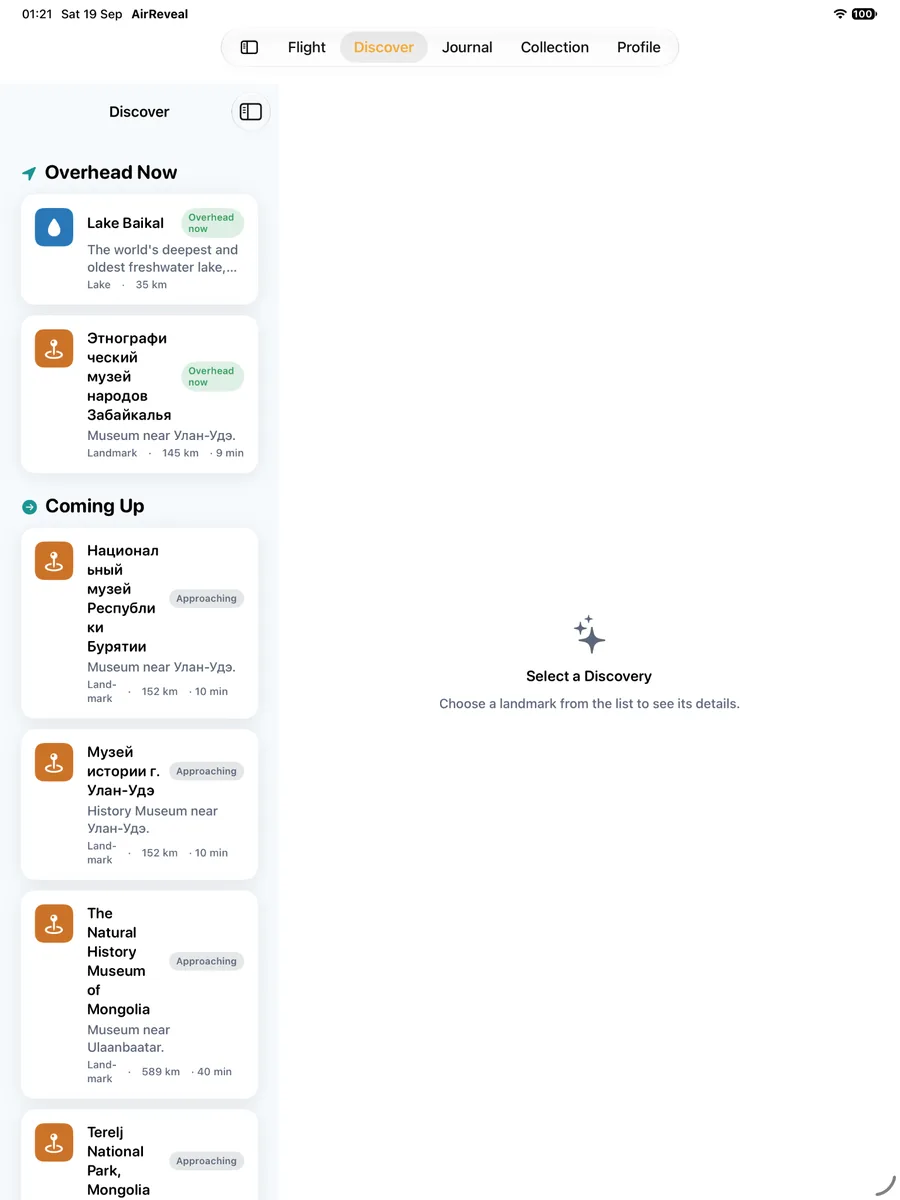
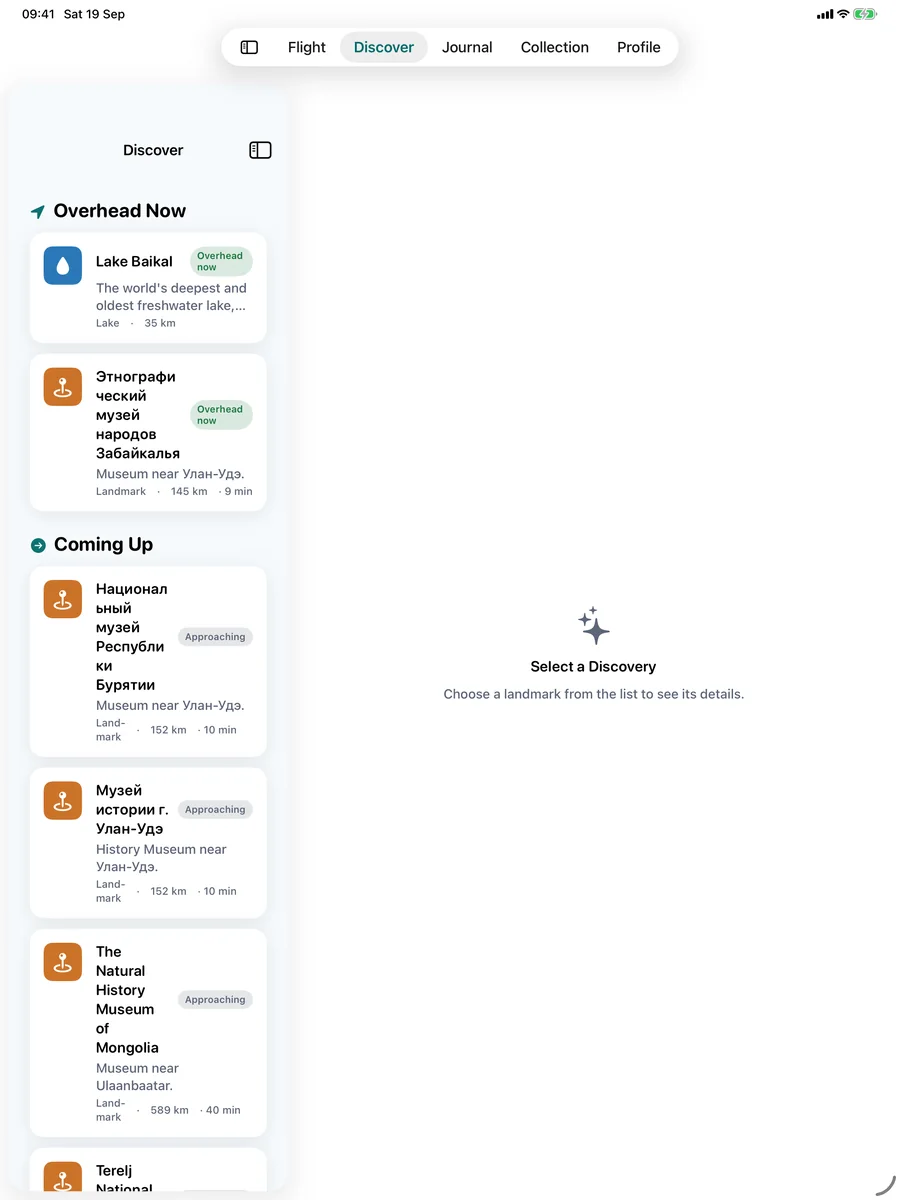
Update Privacy and Terms for current app behaviour; refresh iPad screenshots
Privacy: background "Always" location and on-device route comparison,
generated progress data, on-device entitlement check, free-flight note.
Terms: UK pricing note, Lifetime restore. Both dated September 19, 2026.
Website iPad screenshots re-captured from the current UI.

diff --git a/privacy.html b/privacy.html
@@ -26,7 +26,7 @@
   <header class="doc-head">
     <p class="eyebrow">Privacy Policy</p>
     <h1 class="doc-title">How AirReveal handles your data</h1>
-    <p class="doc-meta">Effective September 18, 2026</p>
+    <p class="doc-meta">Effective September 19, 2026</p>
     <div class="lede">
       <strong>In short:</strong> AirReveal keeps your flight data on your device, and only syncs it to your own iCloud when you explicitly ask it to. There are no AirReveal servers, no accounts, no analytics, and no advertising in this app — full stop.
     </div>
@@ -70,13 +70,14 @@
       <span class="badge"><span class="dot"></span>Journal entries for completed trips</span>
       <span class="badge"><span class="dot"></span>Your display name</span>
       <span class="badge"><span class="dot"></span>Photos captured or picked in the app</span>
+      <span class="badge"><span class="dot"></span>Landmarks you discover, achievements, XP and passport stamps — generated by using the app</span>
     </div>
     <p>All of it is optional — AirReveal only stores what you choose to type, select, or photograph inside the app.</p>
   </section>
 
   <section class="clause" id="location">
     <h2 class="clause-title"><span class="num">3</span> Location Services</h2>
-    <p>AirReveal uses your device's GPS only while you're Live-tracking a real flight — a feature that plots your actual position against your planned route and detects nearby landmarks. Location updates continue in the background so tracking doesn't stop when the app isn't on screen.</p>
+    <p>AirReveal uses your device's GPS only while you're Live-tracking a real flight — a feature that plots your actual position against your planned route and detects nearby landmarks. AirReveal asks for location access when you start tracking, and then for "Always" access so tracking can continue in the background — while your device is locked or another app is open — for the whole flight. Its only use is to record your actual flown route and, on your device, to compare it with the route you planned.</p>
     <ul>
       <li>Location is never requested or used while you're only planning a flight — Plan mode is fully offline-capable and needs no GPS access.</li>
       <li>Your recorded route is stored locally on your device (see Section 7) and is included in an iCloud sync only if you explicitly choose to sync (Section 8).</li>
@@ -128,7 +129,8 @@
 
   <section class="clause" id="subscriptions">
     <h2 class="clause-title"><span class="num">10</span> Subscriptions &amp; payment</h2>
-    <p>AirReveal Pro is sold as an auto-renewable subscription (or a one-time Lifetime purchase) through Apple's App Store using StoreKit. All payment details — card numbers, billing address, and purchase history — are collected and processed by Apple, not by AirReveal. We only receive confirmation from Apple that an active entitlement exists, so we can unlock Live tracking on your device.</p>
+    <p>AirReveal Pro is sold as an auto-renewable subscription (or a one-time Lifetime purchase) through Apple's App Store using StoreKit. All payment details — card numbers, billing address, and purchase history — are collected and processed by Apple, not by AirReveal. We only receive confirmation from Apple that an active entitlement exists, so we can unlock Live tracking on your device; that check is made on your device by StoreKit, not by an AirReveal server.</p>
+    <p>Your first Live-tracked flight is free. AirReveal keeps a single note on your device recording that you've used it, so it isn't offered twice; nothing about it is sent to us.</p>
   </section>
 
   <section class="clause" id="export">

diff --git a/terms.html b/terms.html
@@ -26,7 +26,7 @@
   <header class="doc-head">
     <p class="eyebrow">Terms of Use</p>
     <h1 class="doc-title">The agreement between you and AirReveal</h1>
-    <p class="doc-meta">Effective September 18, 2026</p>
+    <p class="doc-meta">Effective September 19, 2026</p>
     <div class="lede">
       <strong>Before you rely on anything in this app:</strong> AirReveal is a personal flight-companion and landmark-discovery tool, not an official flight-tracking, air-traffic, or aviation-safety service. See Section 3.
     </div>
@@ -88,10 +88,12 @@
       <tr><td>Pro Lifetime</td><td>One-time purchase, never renews</td><td class="num-col">£44.99 once</td><td>N/A</td></tr>
     </table>
     <ul>
+      <li>Prices shown are for the United Kingdom. In other countries and regions the App Store charges the local equivalent, shown to you before you confirm any purchase.</li>
       <li>Payment is charged to your Apple ID account at confirmation of purchase.</li>
       <li>Subscriptions renew automatically unless auto-renew is turned off at least 24 hours before the end of the current period.</li>
       <li>Your account is charged for renewal within 24 hours prior to the end of the current period, at the price you agreed to.</li>
       <li>Manage or cancel a subscription anytime in <strong>Settings → [your name] → Subscriptions</strong> on your device, or via the app's own Profile page.</li>
+      <li>A Lifetime purchase is a one-time payment with no subscription to cancel. It can be restored on any device signed in to the same Apple ID using <strong>Restore Purchases</strong> in the app.</li>
       <li>Refunds are handled by Apple under its own policies — AirReveal cannot issue refunds directly. Request one at <a href="https://reportaproblem.apple.com" target="_blank" rel="noopener">reportaproblem.apple.com</a>.</li>
       <li>A flight you're already tracking live when your subscription lapses is not interrupted mid-flight, but starting or resuming Live tracking on any other flight afterward requires an active subscription.</li>
     </ul>
